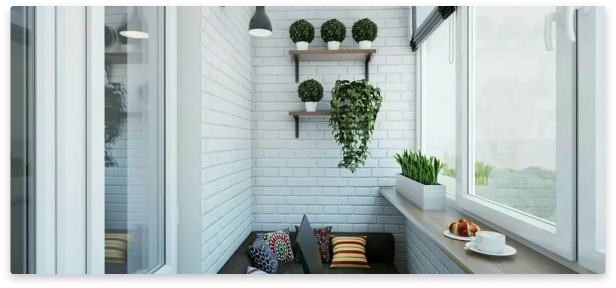
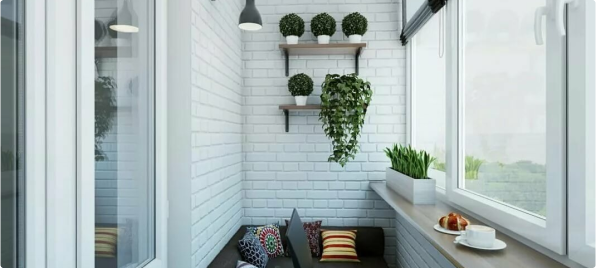
Исправлено фоновое изображение блока "Остекление балконов и лоджий"

diff --git a/css/services.css b/css/services.css
@@ -43,12 +43,6 @@
 }
 
 /*Остекление балконов и лоджий*/
-.service2-image {
-    width: 102%;
-    height: 102%;
-    border-radius: 3px;
-}
-
 .title2-image {
     position: absolute;
     left: 53px;
